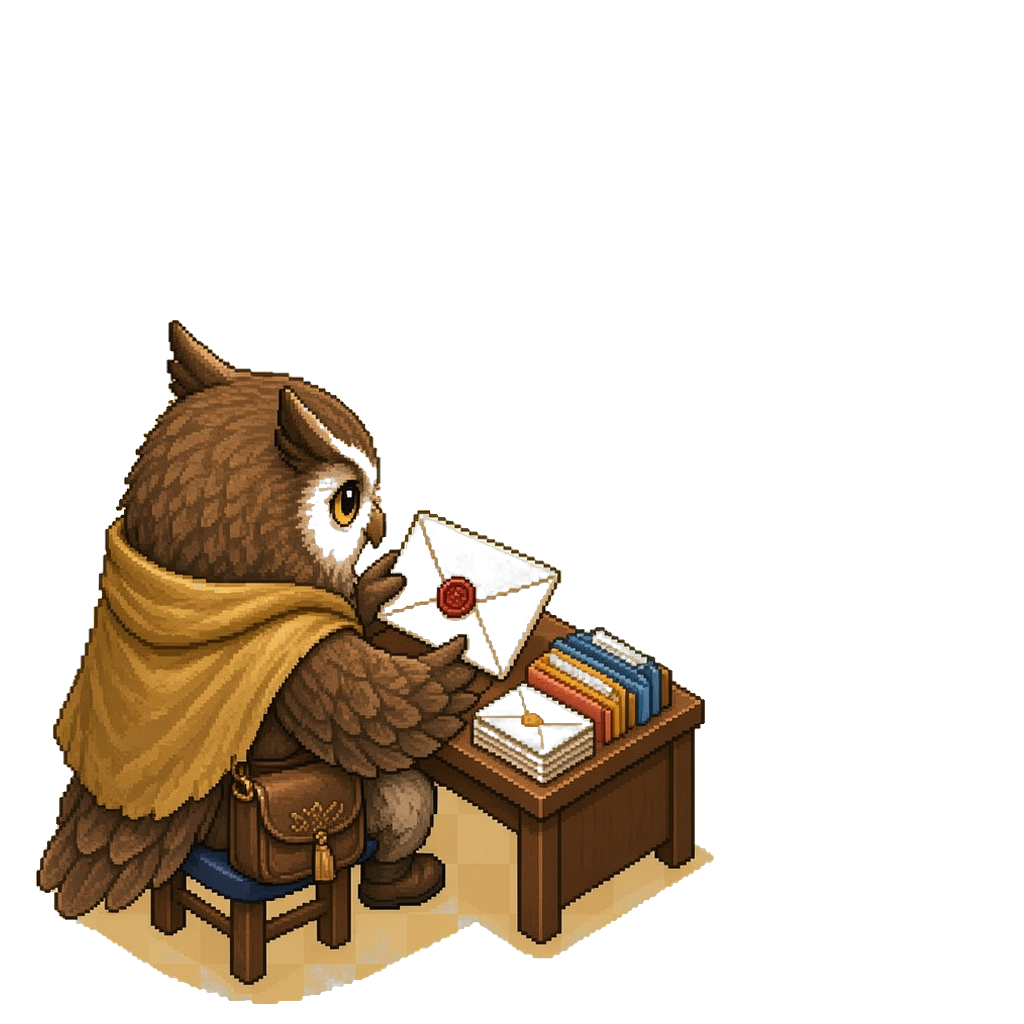
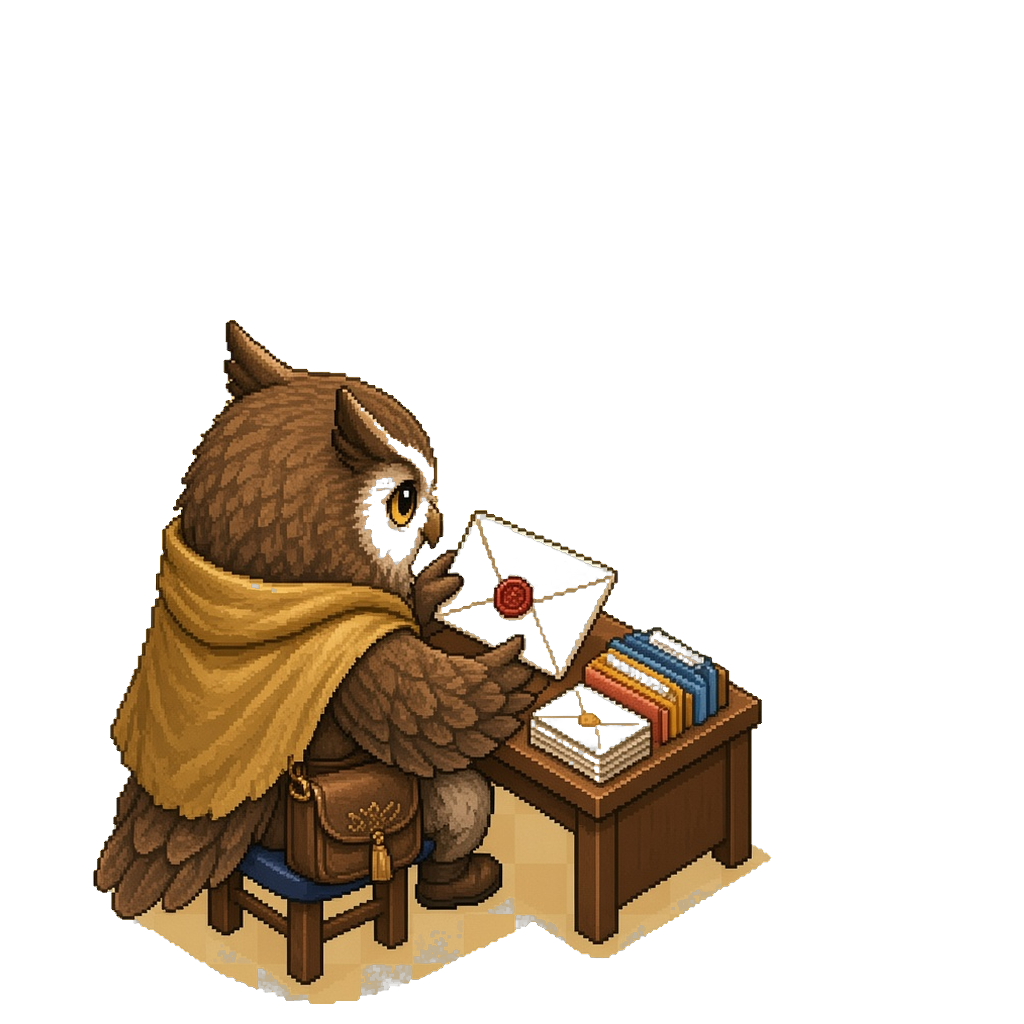
pixel map: scale 醫療官 (and any undersized) to 智子 visual size
Medic subject was ~half height after knockout padding; rescale tight
alpha bbox to match 智子 content height (~684).

Changed region(s): [[0.0312, 0.3125, 0.75, 1.0]]

diff --git a/ai-office-pixel-map.html b/ai-office-pixel-map.html
@@ -391,7 +391,7 @@
           <div class="room-name">${b.wingLabel} · ${b.name}</div>
           <span class="status idle" data-status>暫無</span>
           <div class="desk-zone">
-            <img class="sprite" src="pixel-assets/${b.sprite}?v=knock1" alt="${b.name}" />
+            <img class="sprite" src="pixel-assets/${b.sprite}?v=size2" alt="${b.name}" />
             <span class="sprite-tag">${b.name}</span>
           </div>
           <div class="progress" data-tasks>
